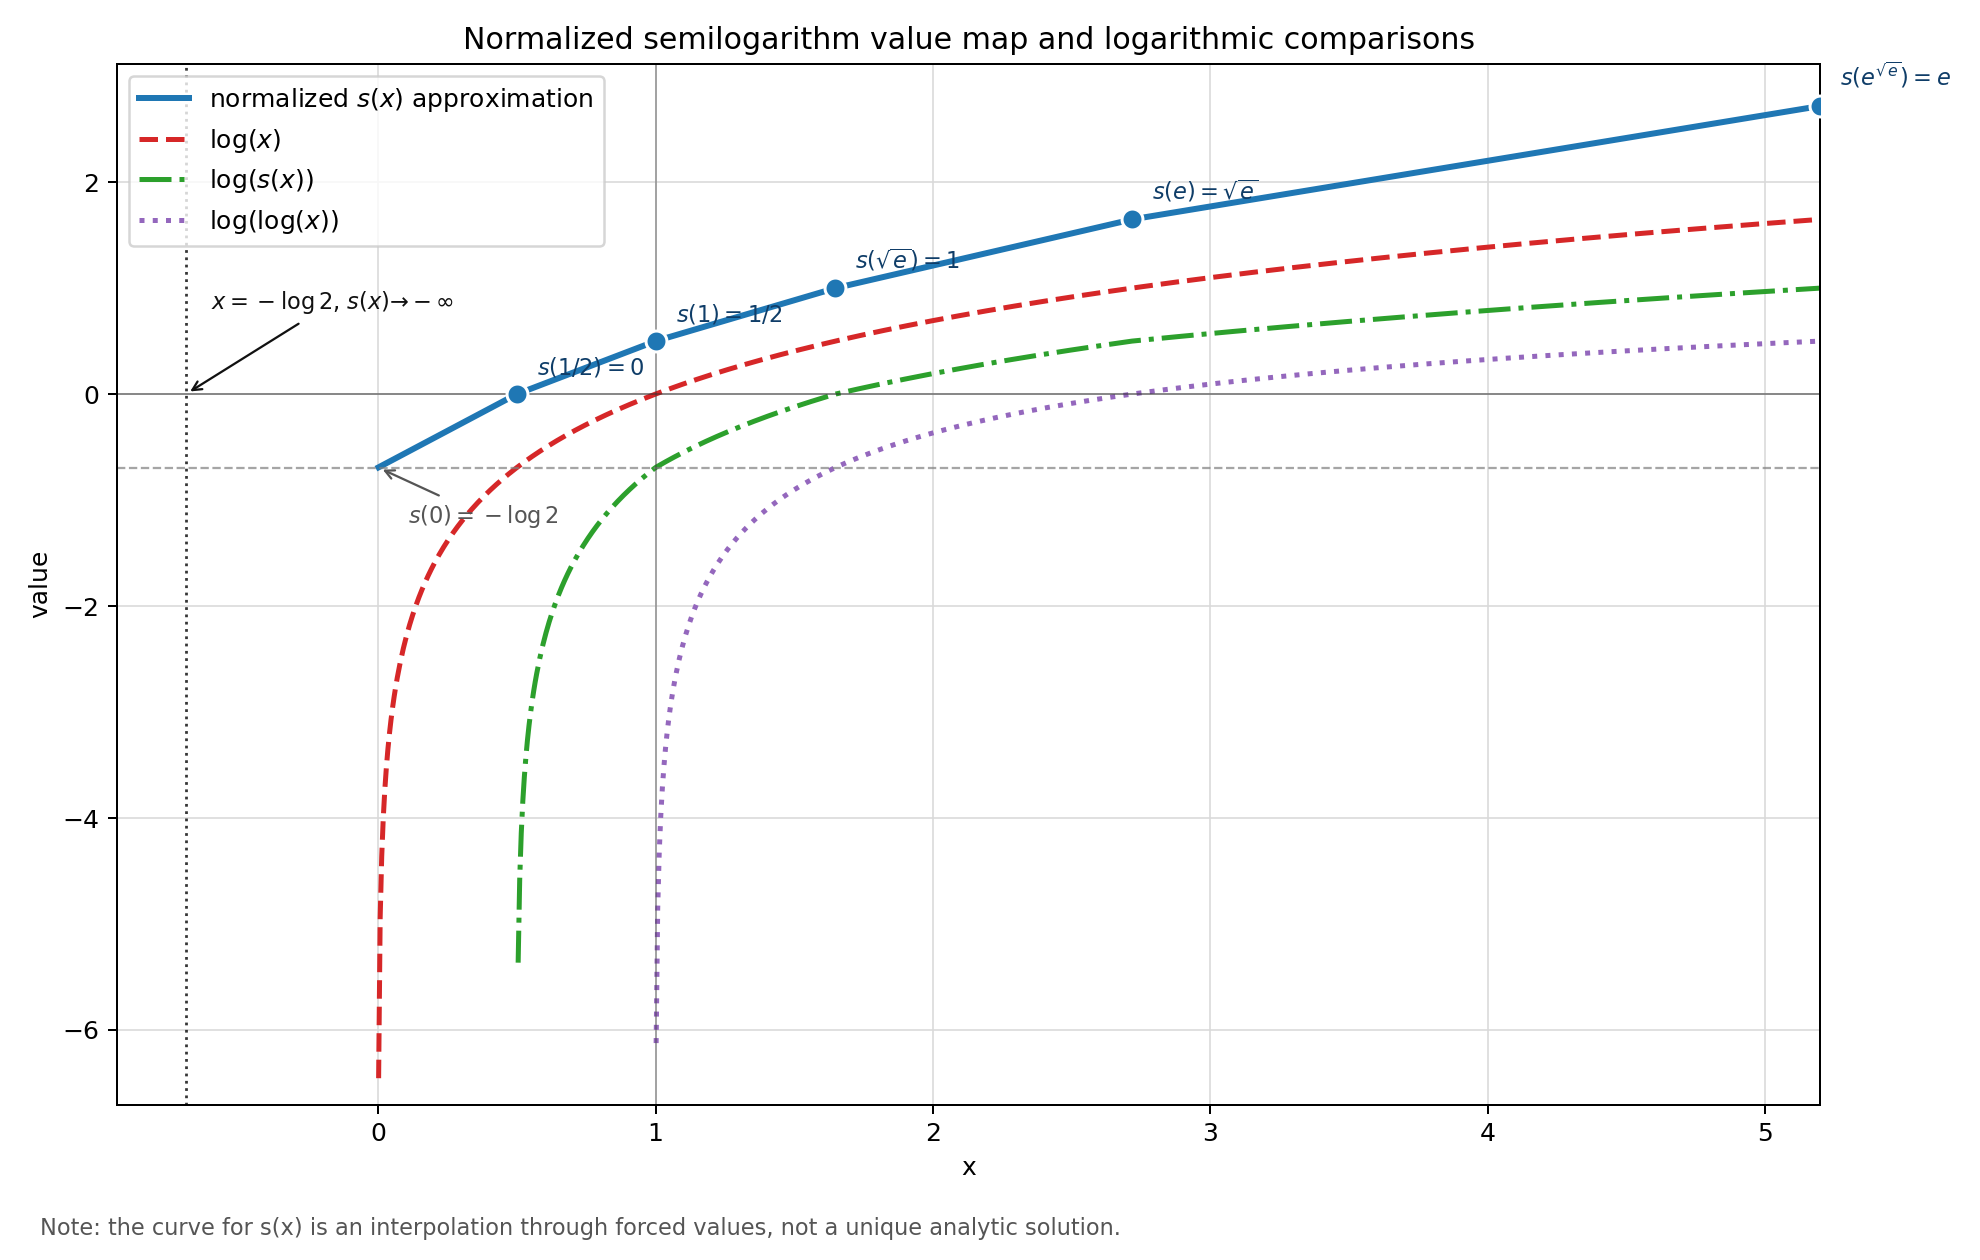
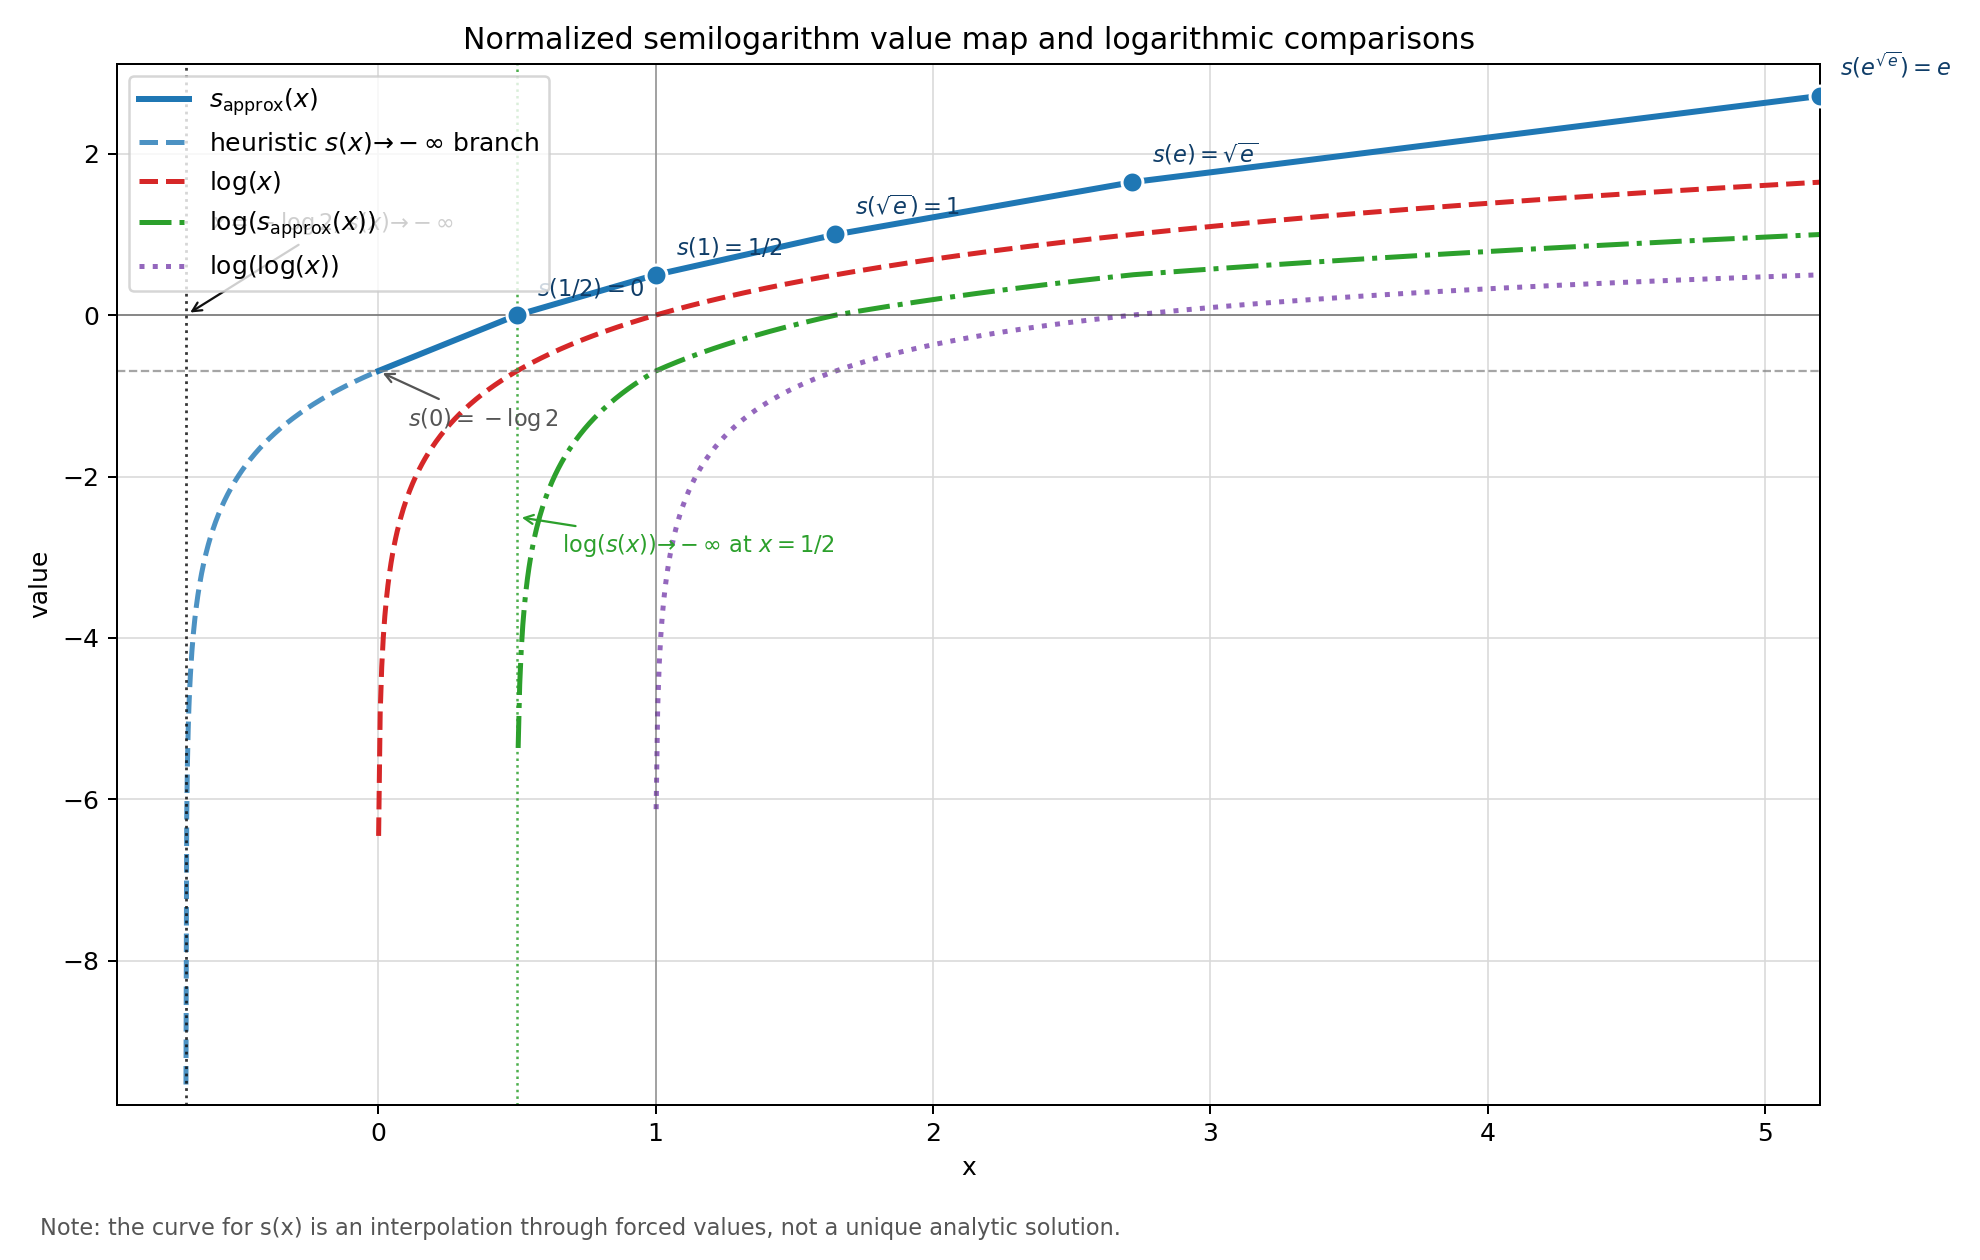
Clarify semilogarithm singular plot

diff --git a/index.html b/index.html
@@ -234,6 +234,7 @@
     .doc-body th, .doc-body td { border: 1px solid #dfe2e6; padding: 6px 11px; text-align: left; }
     .doc-body th { background: #f6f8fa; }
     .doc-body hr { border: 0; border-top: 1px solid #e7e9ec; margin: 1.8em 0; }
+    .doc-body img { max-width: 100%; height: auto; display: block; margin: 1.2em auto; }
     .katex-display { margin: 1.1em 0; overflow-x: auto; overflow-y: hidden; }
 
     /* ---------- Editor ---------- */

diff --git a/library/scripts/plot_semilogarithm.py b/library/scripts/plot_semilogarithm.py
@@ -51,11 +51,30 @@ def forced_positive_anchors() -> list[tuple[float, float, str]]:
     ]
 
 
-def interpolated_semilogarithm(xs: np.ndarray, anchors: list[tuple[float, float, str]]) -> np.ndarray:
-    """Approximate s(x) by linear interpolation through known anchors."""
+def s_approx(xs: np.ndarray, anchors: list[tuple[float, float, str]]) -> np.ndarray:
+    """Approximate the semilogarithm s(x) through the forced anchors.
+
+    This is not the analytic semilogarithm. It is the visual candidate we use
+    to see how s(x) could look under the normalization s(1/2)=0.
+    """
     ax = np.array([x for x, _, _ in anchors], dtype=float)
     ay = np.array([y for _, y, _ in anchors], dtype=float)
     return np.interp(xs, ax, ay)
+
+
+def interpolated_semilogarithm(xs: np.ndarray, anchors: list[tuple[float, float, str]]) -> np.ndarray:
+    """Backward-compatible alias for the plotted approximation."""
+    return s_approx(xs, anchors)
+
+
+def negative_singularity_branch(xs: np.ndarray, singular_x: float) -> np.ndarray:
+    """Heuristic branch with s(x)->-infinity as x approaches -log(2).
+
+    It is anchored by s(0)=-log(2). This is drawn only to visualize the
+    boundary behavior forced by s(-log(2))=-infinity.
+    """
+    width = -singular_x
+    return singular_x + np.log((xs - singular_x) / width)
 
 
 def main() -> None:
@@ -69,7 +88,10 @@ def main() -> None:
 
     semi = np.full_like(xs, np.nan)
     semi_mask = xs >= 0.0
-    semi[semi_mask] = interpolated_semilogarithm(xs[semi_mask], anchors)
+    semi[semi_mask] = s_approx(xs[semi_mask], anchors)
+
+    branch_xs = np.linspace(singular_x + 1e-4, 0.0, 260)
+    branch_values = negative_singularity_branch(branch_xs, singular_x)
 
     log_values = np.full_like(xs, np.nan)
     log_mask = xs > 0.0
@@ -91,16 +113,25 @@ def main() -> None:
     print("\nSampled comparison")
     print("x\ts_approx(x)\tlog(x)\tlog(s_approx(x))\tlog(log(x))")
     for x in [singular_x, 0.0, 0.05, 0.1, 0.25, 0.5, 1.0, math.sqrt(math.e), math.e, anchors[-1][0]]:
-        sx = interpolated_semilogarithm(np.array([x]), anchors)[0] if x >= 0 else float("nan")
+        sx = s_approx(np.array([x]), anchors)[0] if x >= 0 else float("nan")
         lx = math.log(x) if x > 0 else float("nan")
         lsx = math.log(sx) if sx > 0 else float("nan")
         llx = math.log(lx) if lx > 0 else float("nan")
         print(f"{x:.12g}\t{sx:.12g}\t{lx:.12g}\t{lsx:.12g}\t{llx:.12g}")
 
     fig, ax = plt.subplots(figsize=(11, 7))
-    ax.plot(xs, semi, linewidth=2.4, color="#1f77b4", label=r"normalized $s(x)$ approximation")
+    ax.plot(xs, semi, linewidth=2.4, color="#1f77b4", label=r"$s_{\mathrm{approx}}(x)$")
+    ax.plot(
+        branch_xs,
+        branch_values,
+        linewidth=2.0,
+        color="#1f77b4",
+        linestyle="--",
+        alpha=0.8,
+        label=r"heuristic $s(x)\to-\infty$ branch",
+    )
     ax.plot(xs, log_values, linewidth=2.0, color="#d62728", linestyle="--", label=r"$\log(x)$")
-    ax.plot(xs, log_semi_values, linewidth=2.0, color="#2ca02c", linestyle="-.", label=r"$\log(s(x))$")
+    ax.plot(xs, log_semi_values, linewidth=2.0, color="#2ca02c", linestyle="-.", label=r"$\log(s_{\mathrm{approx}}(x))$")
     ax.plot(xs, loglog_values, linewidth=2.0, color="#9467bd", linestyle=":", label=r"$\log(\log(x))$")
 
     anchor_x = [x for x, _, _ in anchors if x > 0]
@@ -122,6 +153,7 @@ def main() -> None:
     ax.axhline(0, color="#333333", linewidth=0.8, alpha=0.5)
     ax.axhline(singular_x, color="#7f7f7f", linewidth=0.9, linestyle="--", alpha=0.7)
     ax.axvline(1, color="#333333", linewidth=0.8, alpha=0.35)
+    ax.axvline(0.5, color="#2ca02c", linewidth=1.0, linestyle=":", alpha=0.85)
     ax.axvline(singular_x, color="#111111", linewidth=1.1, linestyle=":", alpha=0.85)
     ax.annotate(
         r"$x=-\log 2$, $s(x)\to-\infty$",
@@ -131,6 +163,15 @@ def main() -> None:
         arrowprops={"arrowstyle": "->", "color": "#111111", "linewidth": 0.9},
         fontsize=9,
         color="#111111",
+    )
+    ax.annotate(
+        r"$\log(s(x))\to-\infty$ at $x=1/2$",
+        xy=(0.5, -2.5),
+        xytext=(18, -14),
+        textcoords="offset points",
+        arrowprops={"arrowstyle": "->", "color": "#2ca02c", "linewidth": 0.9},
+        fontsize=9,
+        color="#2ca02c",
     )
     ax.annotate(
         r"$s(0)=-\log 2$",
@@ -147,6 +188,7 @@ def main() -> None:
     ax.set_xlim(x_min, x_max)
     finite_curves = np.concatenate([
         semi[np.isfinite(semi)],
+        branch_values[np.isfinite(branch_values)],
         log_values[np.isfinite(log_values)],
         log_semi_values[np.isfinite(log_semi_values)],
         loglog_values[np.isfinite(loglog_values)],

diff --git a/library/the-semilogarithm.md b/library/the-semilogarithm.md
@@ -2,7 +2,7 @@
 title: The Semilogarithm
 type: paper
 created: 2026-05-23T13:00:00+00:00
-updated: 2026-05-23T13:45:00+00:00
+updated: 2026-05-23T14:20:00+00:00
 ---
 
 # The Semilogarithm
@@ -493,41 +493,66 @@ $$
 \log x, \qquad \log(s(x)), \qquad \log(\log x).
 $$
 
-One possible question is whether the order
+This comparison must be made carefully, because each expression has its own
+domain restrictions. The expression $\log x$ is real for $x>0$. The expression
+$\log(\log x)$ is real only for
 
 $$
-\log x < \log(s(x)) < \log(\log x)
+x>1,
 $$
 
-can hold. On the positive real line, this order is not the natural one for
-large values of $x$. Indeed, for $x>e$, we have
+and it is positive only for $x>e$. The expression $\log(s(x))$ is real only
+where
 
 $$
-\log x>1,
+s(x)>0.
 $$
 
-and therefore
+Under the normalization $s(1/2)=0$, the forced values give
+
+$$
+s(1)=\frac{1}{2}, \qquad s(\sqrt e)=1, \qquad s(e)=\sqrt e.
+$$
+
+Therefore $\log(s(x))$ becomes real along the forced positive chain once
+$s(x)>0$.
+
+### The Containment Region
+
+For $x>e$, the two logarithmic curves satisfy
 
 $$
 \log(\log x)<\log x.
 $$
 
-Thus the inequality
+Thus the natural bounded region is the vertical band
 
 $$
-\log x < \log(s(x)) < \log(\log x)
+\mathcal{R}=\left\{(x,y):x>e,\ \log(\log x)<y<\log x\right\}.
 $$
 
-cannot hold for $x>e$, because its left and right endpoints are already in the
-opposite order.
-
-The normalized value chain instead suggests the reversed ordering
+The question is whether the semilogarithmic curve
 
 $$
-\log(\log x)<\log(s(x))<\log x,
+y=\log(s(x))
 $$
 
-at least along the forced anchor values. For example, at $x=e$,
+lies inside this region, namely whether
+
+$$
+\log(\log x)<\log(s(x))<\log x.
+$$
+
+The opposite ordering
+
+$$
+\log x<\log(s(x))<\log(\log x)
+$$
+
+cannot hold for $x>e$, because the endpoints are already ordered as
+$\log(\log x)<\log x$.
+
+At the forced value $x=e$, we obtain
 
 $$
 \log(\log e)=\log 1=0,
@@ -543,7 +568,7 @@ $$
 \log e=1.
 $$
 
-Therefore,
+Thus
 
 $$
 0<\frac{1}{2}<1.
@@ -579,20 +604,132 @@ $$
 \frac{1}{2}<1<\sqrt e.
 $$
 
-This supports the ordering
+These anchor values support the containment
 
 $$
 \log(\log x)<\log(s(x))<\log x
 $$
 
-on the positive region where all three expressions are defined and where the
-normalized semilogarithm behaves as a monotone half-step between $x$ and
-$\log x$.
+on the positive region where all three quantities are defined, provided the
+chosen semilogarithm is monotone and behaves as a genuine half-step between the
+identity and the logarithm in Abel coordinates.
 
-The graphical script in `library/scripts/plot_semilogarithm.py` plots these
-three quantities together with an interpolated model of $s(x)$ based on the
-forced values. The plot is exploratory: it visualizes the consequences of the
-normalization, but it is not a proof of a unique analytic semilogarithm.
+### What the Graph Shows
+
+The generated graph is included below.
+
+![Normalized semilogarithm plot](library/images/semilogarithm-normalized.png)
+
+The curve labelled $s(x)$ in the graph is not an analytic construction of the
+semilogarithm. It is an interpolated model through the forced values
+
+$$
+0\mapsto -\log 2,
+\quad
+\frac{1}{2}\mapsto 0,
+\quad
+1\mapsto \frac{1}{2},
+\quad
+\sqrt e\mapsto 1,
+\quad
+e\mapsto \sqrt e.
+$$
+
+The script uses monotone linear interpolation between these anchors. Therefore
+the plotted green curve is not the true analytic object
+
+$$
+\log(s(x)),
+$$
+
+but rather
+
+$$
+\log(s_{\mathrm{interp}}(x)).
+$$
+
+This explains why it appears continuous and regular in the graph: the continuity
+comes from interpolation, not from an analytic solution of the semilogarithm
+problem.
+
+### Two Different Descents to $-\infty$
+
+There are two different descents in the picture, and they must not be confused.
+
+First, the normalization gives
+
+$$
+s(0)=-\log 2
+$$
+
+and
+
+$$
+s(-\log 2)=-\infty.
+$$
+
+So the semilogarithm itself has a singular descent at
+
+$$
+x=-\log 2\approx -0.6931.
+$$
+
+This is a statement about $s(x)$.
+
+Second, because
+
+$$
+s\left(\frac{1}{2}\right)=0,
+$$
+
+the expression $\log(s(x))$ has its own logarithmic descent at
+
+$$
+x=\frac{1}{2}.
+$$
+
+Indeed, if $s(x)\to 0^+$, then
+
+$$
+\log(s(x))\to -\infty.
+$$
+
+This is a statement about $\log(s(x))$, not about $s(x)$ itself.
+
+Therefore the apparent descent near $x=1/2$ belongs to the plotted curve
+$\log(s_{\mathrm{interp}}(x))$. The negative singular value of the
+semilogarithm is instead
+
+$$
+-\log 2,
+$$
+
+not $-1/2$. If the picture visually suggests $-1/2$, that is because the
+vertical line $x=1/2$ is the positive zero of $s(x)$, where the logarithm of
+$s(x)$ becomes singular. It is not the negative point where $s(x)$ itself is
+sent to $-\infty$.
+
+The updated plot therefore shows both features: a dashed heuristic branch for
+$s(x)\to-\infty$ as $x\to-\log 2^+$, and a separate vertical marker at
+$x=1/2$ for $\log(s(x))\to-\infty$.
+
+Nevertheless, the graph is useful as a geometric map. It shows the expected
+position of the semilogarithmic half-step curve between the two bounding curves
+$\log(\log x)$ and $\log x$ at the forced values. A proof for a genuine analytic
+semilogarithm would require constructing an Abel coordinate $\Phi$ satisfying
+
+$$
+\Phi(\log x)=\Phi(x)+1
+$$
+
+and then defining
+
+$$
+s(x)=\Phi^{-1}\left(\Phi(x)+\frac{1}{2}\right).
+$$
+
+Only after that construction could the containment inequality be studied as an
+analytic theorem rather than as an interpolation-supported observation.
 
 ## Mapping Around Known Values
 